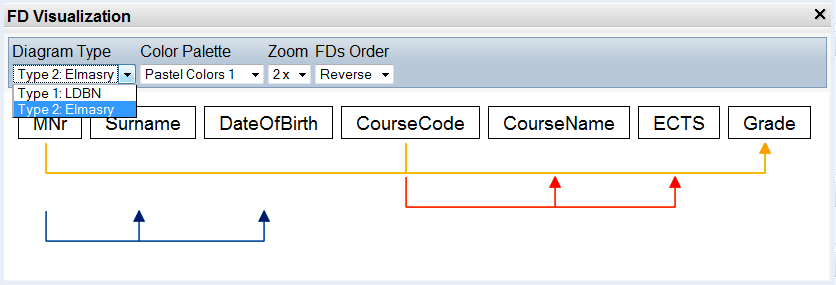
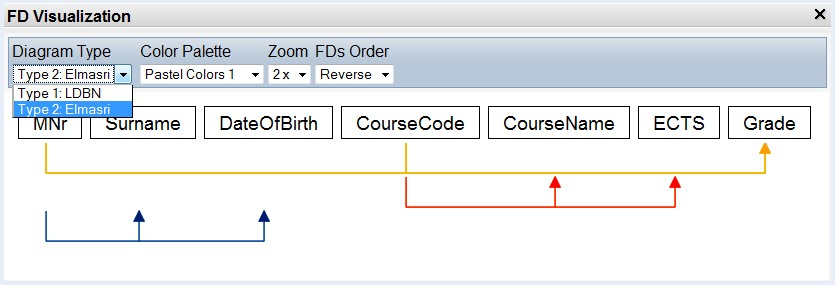
2010-05-12_2150 * Final version of the BT report

diff --git a/ldbn-reports/BT/tex/approach.tex b/ldbn-reports/BT/tex/approach.tex
@@ -13,14 +13,14 @@ There are many different techniques for implementing a Web-based application.
 The problem specifies that the solution must be able on the one hand to 
 quickly communicate with LDBN 
 and on the other hand to extend some of its capabilities, 
-thus a basic HTML solution will not be able to achieve our goal, 
+thus a basic HTML solution cannot achieve our goal, 
 since all pages in that case are static. 
 
 The remaining options can be divided into 3 groups, client-side, server-side and
-a client-server based. 
+a client-server based approach. %don't like this sentance%
 
-The client-side solutions consist of a Java applet or a Flash
-application are downloaded by the browser and then run locally on the computer of the user.
+The client-side solutions consist of a Java applet or a Flash application 
+which are downloaded by the browser and then run locally on the computer of the user.
 This is achieved by installing a separate browser plug-in. However, this approach has the disadvantage
 of requiring a plug-in, which is not always available by default on all Web browsers, and sometimes
 installing such plug-ins can only be done by system administrators. This could have a major negative
@@ -55,7 +55,7 @@ can be used to access and manipulate the DOM of the Web page.
 An example of an AJAX architecture is illustrated in Figure~\ref{fig:ajax01}, 
 which is an adaptation of~\cite[Figure 3.1]{mt1}.
 
-\begin{figure}[h]
+\begin{figure}[ht]
 	\begin{center}
 		\includegraphics[width=0.8\textwidth]{./img/ajax01a.png}
 		\caption{Example of an AJAX Architecture}
@@ -91,7 +91,7 @@ JavaScript, it results in a single JavaScript file for each browser type and tar
 This is illustrated in Figure~\ref{fig:gwt01}, which is an adaptation of~\cite[Figure 7]{wgio2}. 
 Thus the client downloads and executes only the code that is specifically designed for that platform.  
 
-\begin{figure}[h]
+\begin{figure}[ht]
 	\begin{center}
 		\includegraphics[width=0.8\textwidth]{./img/gwt01a.png}
 		\caption{GWT Java-to-JavaScript Compiler}
@@ -136,7 +136,7 @@ it provides support for all major browsers including IE.
 It should be noted that by doing this
 we lose some rendering speed in IE that generally comes in other browsers
 with a native canvas implementation. 
-On the other hand in our implementation of the visualization of FDs we use only static scenes, i.e., 
+On the other hand, in our implementation of the visualization of FDs we use only static scenes, i.e., 
 no animation or any other intensive 
 graphical operations. Therefore, in our opinion, VML is sufficient for our project. 
 
@@ -173,7 +173,7 @@ browser window. The way around this issue could be the use of a server
 which communicates with both applications. However, 
 this would make the drag and drop too slow for effective usage. 
 
-In our implementation we use a different approach. We implement our own 
+In LDBN 1.1 we use a different approach. We implement our own 
 JavaScript-based window package, since GWT does not offer one in its standard library.
 With it we can create pop-up windows which exist within a browser window. 
 An example of such a window is presented in Figure~\ref{fig:fd-visual-win}. 
@@ -194,7 +194,7 @@ interface. Furthermore, with our implementation we have more powerful control ov
 the graphical representation of the window. This way for example we can add a close button (image)
 in the upper right corner, which is a more intuitive way to interact with the UI.
 
-\begin{figure}[h]
+\begin{figure}[ht]
 	\begin{center}
 		\includegraphics[width=0.9\textwidth]{./img/fd-visual-win.png}
 		\caption{FD Visualization Window}
@@ -222,7 +222,7 @@ We believe the drag and drop functionality can help
 users define attributes, keys or FDs much more quickly, which can
 help improve the usability of the learning environment.
 
-\begin{figure}[h]
+\begin{figure}[ht]
 	\begin{center}
 		\includegraphics[width=0.9\textwidth]{./img/impl-fds01.png}
 		\caption{Visualization Components}
@@ -230,7 +230,7 @@ help improve the usability of the learning environment.
 	\end{center}
 \end{figure}
 
-\begin{figure}[h]
+\begin{figure}[ht]
 	\begin{center}
 		\includegraphics[width=0.9\textwidth]{./img/given-atts.png}
 		\caption{Given Attributes Widget}
@@ -238,7 +238,7 @@ help improve the usability of the learning environment.
 	\end{center}
 \end{figure}
 
-\begin{figure}[h]
+\begin{figure}[ht]
 	\begin{center}
 		\includegraphics[width=0.6\textwidth]{./img/fdeditor.png}
 		\caption{FD Editor Dialog in LDBN}
@@ -251,7 +251,7 @@ It is shown in Figure~\ref{fig:impl-fds01}.
 The canvas element is placed bellow the attributes, and there the actual drawing 
 of the FDs takes place. In LDBN we support two types of visualization, each of them can be selected
 from the \emph{Diagram Type} drop down menu in the visualization window. The first type is called 
-\emph{Elmasti}, since it is the form of representation used in~\cite{bdb1}. 
+\emph{Elmasri}, since it is the form of representation used in~\cite{bdb1}. 
 The main difference between this approach and
 the traditional representation of FDs is the fact the we display each attribute in the set of 
 FDs only once. 
@@ -268,14 +268,14 @@ them get familiar with~\cite{bdb1}, from which
 the visualization is inspired. However, the approach has some disadvantages
 as well, not the least of which is the fact that it does not make use
 of all the available white space in the diagram. To address this issue
-we offer a option where the user can change the order in which
+we offer an option where the user can change the order in which
 the FDs are rendered. In addition to this, we also offer another type of
 visualization where the arrows of each FD always start/reach the 
 attributes at the top of the diagram. 
 Both types of visualization can be observed in 
 Figure~\ref{fig:dia_example_elmasry} and~\ref{fig:dia_example_ldbn}.
 
-\begin{figure}[h]
+\begin{figure}[ht]
   \centering
   \subfigure[Type: Elmasri]{
     \includegraphics[scale=0.5]{./img/dia-elmasri-ex-fds-01.png}
@@ -380,10 +380,10 @@ Under the hood LDBN manages the user data in a MySQL database.
 We realize the different user groups by simply altering the already existing table \verb=users=. 
 and adding two more attributes 
 of type boolean - \verb=isInstructionalUser= and \verb=isSuperuser=. 
-These attributes are set to \verb=true= when a user has instructional users and respectively superuser 
+These attributes are set to \verb=true= when a user has instructional user and respectively superuser 
 rights in the system. 
 
-Furthermore, in order to make it easier for instructional and superuser to manage the system
+Furthermore, in order to make it easier for instructional users and superusers to manage the system
 we develop an extra user interface (UI) in LDBN called \emph{Administrators}, which is accessible via a
 separate tab. It can be seen in Figure~\ref{fig:admin-ui}. 
 The \emph{Administrators} UI offers three buttons which open 
@@ -393,7 +393,7 @@ deleting assignments. Creating and editing assignments can still be done in the
 a corresponding SQL statement for a specific user. However, this is not an issue, since 
 we do not expect the system to have more than one or two superusers. 
 
-\begin{figure}[h]
+\begin{figure}[ht]
 	\begin{center}
 		\includegraphics[width=0.9\textwidth]{./img/admin-ui.png}
 		\caption{Administrators Tab}
@@ -404,27 +404,27 @@ we do not expect the system to have more than one or two superusers.
 With the new separation of users into groups we can easily overcome most of 
 the issues surrounding user privileges described in the Section~\ref{sec:problem_statement}.
 Most importantly, we implement different filters for the \emph{Load Assignment} dialog,
-which can be seen in Figure~\ref{fig:load-assg}. The user can choose from 
+which can be seen in Figure~\ref{fig:load-assg}. Thus the user can choose from 
 a drop-down menu to show only assignments submitted by instructional users 
 (or superusers), the user himself or to show all assignments stored in the system. 
 In addition, it should be noted that only assignments submitted
-by instructional and superusers are visible by default, since instructional are in most
+by instructional and superusers are visible by default, since instructional users are in most
 cases course lecturers and they provide more sophisticated and 
 well-thought-out assignments. 
 
 In order to view other assignments, which are present in the system, 
 one should choose a different filter from the drop-down menu. 
-On the one hand, we implement the filters on the client-side, thus when a new filter is
+We implement the filters on the client-side, thus when a new filter is
 applied we do not cause a new server interaction. Rather we apply them
 on the initially received dataset, which holds all the meta data for each assignment.
-On the other hand, this makes the UI very responsive to user input. 
+As a result, the UI is very responsive to user input. 
 In order to further increase the usability of the \emph{Load Assignment} dialog
 we implement a column-soring function for it. As a result, users can click on
 the different headers such as \emph{Name, Author and Last Modified} and sort the 
 assignments correspondingly in an increasing or in a decreasing order. This is once
 again done on the client side. 
 
-\begin{figure}[h]
+\begin{figure}[ht]
 	\begin{center}
 		\includegraphics[width=0.6\textwidth]{./img/load-assg.png}
 		\caption{Load Assignment Dialog with Filters}
@@ -446,11 +446,11 @@ just want to get a general overview of the system and
 do not want to become contributors, 
 or for testing purposes for users who are currently creating an assignment. 
 
-Another useful feature in LDBN 1.0 is support for user comments, 
+Another useful feature in LDBN 1.0 is the support for user comments, 
 which users can give for each assignment. These comments
 are then shown in the \emph{Solve Assignments} tab when the assignment is loaded. On the one
 hand, such comments ensure that users can easily communicate and share ideas with each
-other, and comments could also decrease the amount of workload
+other. On the other hand, comments could also decrease the amount of workload
 for the lecturers in terms of giving an explanation to a difficult decomposition. However, in LDBN 1.0  
 once submitted comments could not be altered. The only way to edit or to delete a
 comment was to make the corresponding change directly in the database of the system. 
@@ -460,7 +460,7 @@ the rights to make a change on a comment or to delete it a corresponding icon is
 (\includegraphics[scale=0.7]{./img/edit.png} or \includegraphics[scale=0.7]{./img/del.png})
 next to the comment entry.
 
-\begin{figure}[h]
+\begin{figure}[ht]
 	\begin{center}
 		\includegraphics[width=0.75\textwidth]{./img/load-in-sa.png}
 		\caption{Load in SA Tab Button}

diff --git a/ldbn-reports/BT/tex/motivation.tex b/ldbn-reports/BT/tex/motivation.tex
@@ -21,7 +21,7 @@ to deal with a large number of attributes and FDs based on those attributes.
 However, LDBN 1.0 offers only textual representation of FDs, an example of such
 representation is shown in Figure~\ref{fig:exampleFds01} . 
 
-\begin{figure}[h]
+\begin{figure}[ht]
 	\begin{center}
 		\includegraphics[width=0.7\textwidth]{./img/example_fds_01.png}
 		\caption{Example of a Typical Textual Representation of FDs in LDBN 1.0}
@@ -33,7 +33,7 @@ representation is shown in Figure~\ref{fig:exampleFds01} .
 As can be seen, some attributes 
 may occur more than once in a single FD and there may be many different FDs in a single 
 assignment. Although this is a standard representation of FDs, 
-it may lead to a confusion among students and negatively affect the overall
+it may lead to confusion among students and negatively affect the overall
 usability of the system. Thus we extended LDBN 1.0 by providing a visualization for
 FDs. In order the visualization to be intuitive for 
 both students and lecturers we have decided to use templates found in popular 
@@ -41,7 +41,7 @@ popular database textbooks such as~\cite{bdb2} and~\cite{bdb1}.
 An example of a such visualization can be observed in Figure~\ref{fig:viz-fds-ex01}, which
 was generated with LDBN 1.1. 
 
-\begin{figure}[h]
+\begin{figure}[ht]
 	\begin{center}
 		\includegraphics[width=0.95\textwidth]{./img/example_fds_02.png}
 		\caption{Example of a Graphical Representation of FDs in LDBN 1.1}
@@ -59,11 +59,11 @@ visualization one can clearly see that some FDs are redundant, such as $A \right
 In fact for relatively small sets of FDs, which are typical for LDBN, by using the visualization functionality 
 one can easily apply Algorithm~4.12 in~\cite{mt1}, which is used for computing a minimal cover of an FD set -~$F_c$.
 In this case a minimal cover may be defined as  
-$F_c = A \rightarrow B; E \rightarrow A; F \rightarrow C D; C \rightarrow B E F$. 
+$F_c = A \rightarrow C; E \rightarrow A; F \rightarrow C D; C \rightarrow B E F$. 
 Thus all other FDs are redundant, as they may be inferred from $F_c$. 
 Readers unfamiliar with the term \emph{Minimal Cover of an FD Set} may refer to~\cite[Section~2.1.6]{mt1}. 
 
-\begin{figure}[h]
+\begin{figure}[ht]
   \centering
   \subfigure[Textual Representation]{
     \includegraphics[scale=0.7]{./img/ldbn-viz-ex-fc00.jpg}
@@ -115,14 +115,14 @@ Furthermore, the goals of this thesis can be divided into two parts:
   \item Implement different types of visualization for FDs based 
   on templates found in popular textbooks such as~\cite{bdb2} and~\cite{bdb1}. 
   Furthermore, the visualization should support different colors schemata and 
-  zoom levels for a better presentation. Furthermore, the visualization
+  zoom levels for a better presentation. In addition to this, the visualization
   should be available in all fields of the UI which hold a set of FDs. 
-  In addition to this, it should not interfere with existing representation of the FDs.
+  Moreover, it should not interfere with existing representation of the FDs.
 
   \item Improve the existing system in several ways including:
   
   \begin{enumerate}
-    \item Dividing the user into at least two groups: 
+    \item Dividing users into at least two groups: 
     (1) instructional users and (2) regular registered users. This is done without
     affecting the existing users, thus all already registered users will keep
     their rights in the system. 

diff --git a/ldbn-reports/BT/tex/introduction.tex b/ldbn-reports/BT/tex/introduction.tex
@@ -87,7 +87,7 @@ A dialog with the result is shown to the user. In case of an error the system of
 feedback in form of small textual hints, indicating
 where the error might be. 
 
-\begin{figure}[h]
+\begin{figure}[ht]
 	\begin{center}
 		\includegraphics[width=0.84\textwidth]{./img/screen01b.png}
 		\caption{Solve Assignments Tab}
